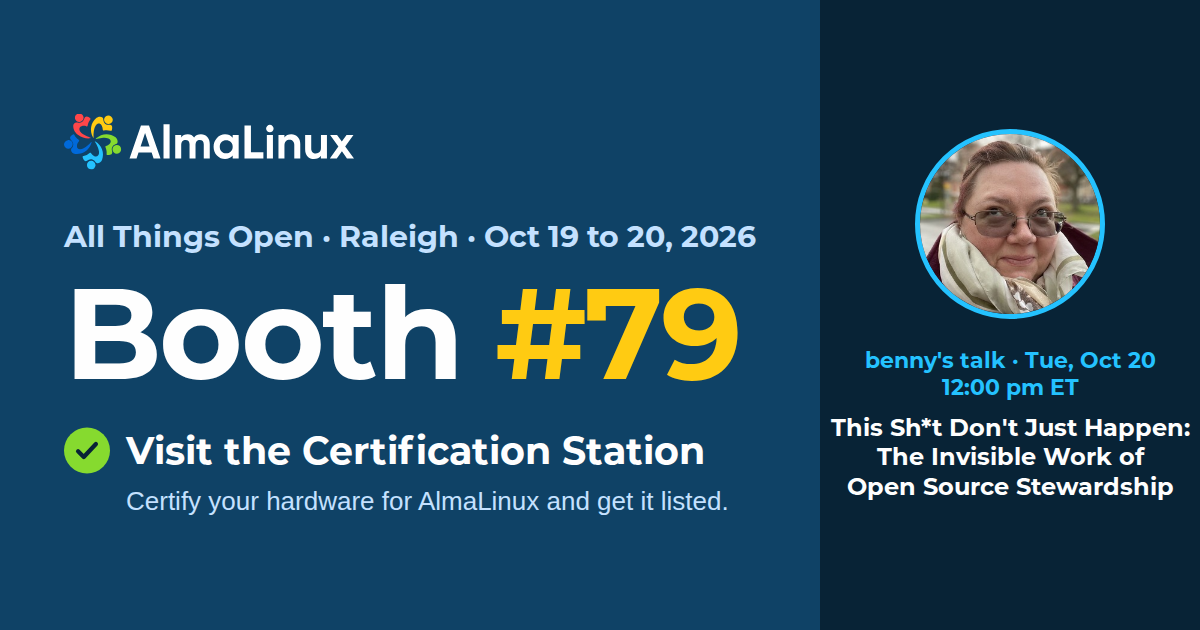
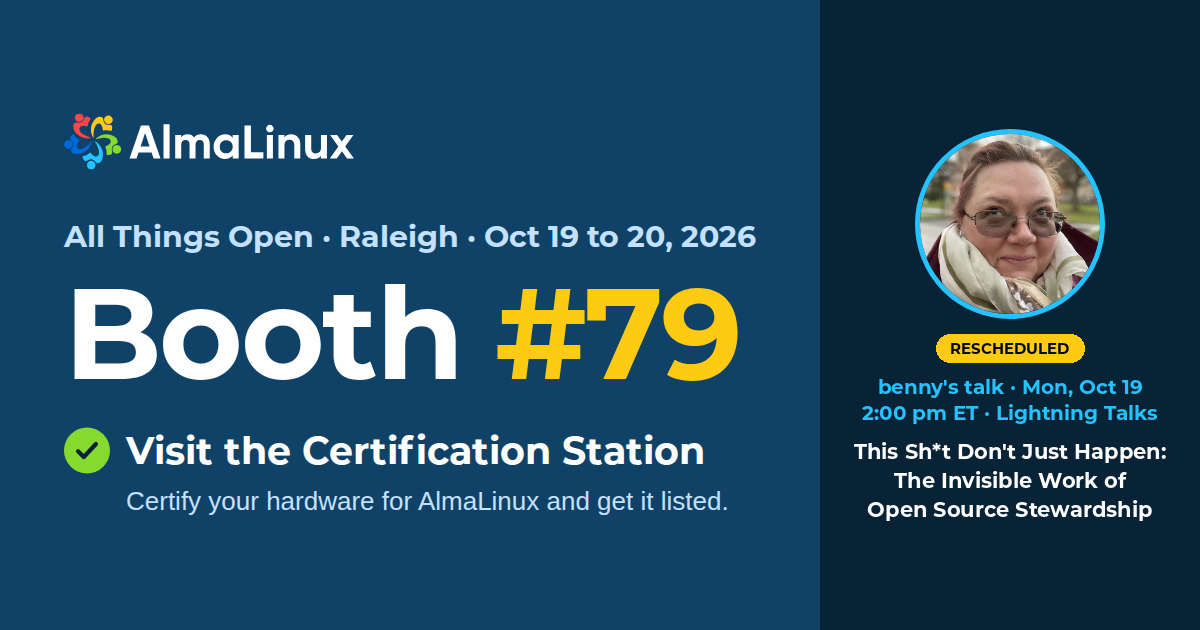
Move benny's ATO talk to the Monday lightning talk slot
The All Things Open organizers moved "This Sh*t Don't Just Happen" from Tuesday, October 20 at 12:00 pm ET to the 2:00 pm ET Lightning Talks block on Monday, October 19. The landing page now shows the new time, marks the talk as rescheduled so anyone who saw the old time knows what changed, and labels the talk section as Monday since both of benny's sessions are now that day. The social preview image carries the same update.

Written with AI assistance, so the copy and image deserve a close review.

Changed region(s): [[0.6783, 0.5127, 1.0, 0.8444]]

diff --git a/content/ato-2026.md b/content/ato-2026.md
@@ -81,7 +81,7 @@ You don't have to be in Raleigh to help. Community validation is a real part of 
 </div>
 
 <div class="al-event-feature mb-5" id="talk">
-  <div class="al-event-eyebrow">Both days of the conference</div>
+  <div class="al-event-eyebrow">Monday, October 19</div>
   <h2>Catch benny in Raleigh</h2>
   <div class="row g-4 mt-3 align-items-start">
     <div class="col-12 col-lg-2 text-center">
@@ -95,8 +95,9 @@ You don't have to be in Raleigh to help. Community validation is a real part of 
       <a href="https://luma.com/4a055dx0" class="btn px-4 al-cta-blue"><i class="bi bi-calendar-event" aria-hidden="true"></i> Register for the Forum</a>
     </div>
     <div class="col-12 col-md-6 col-lg-5">
-      <div class="al-event-eyebrow">Tuesday, October 20 at 12:00 pm ET</div>
+      <div class="al-event-eyebrow">Monday, October 19 at 2:00 pm ET (rescheduled)</div>
       <h3>This Sh*t Don't Just Happen: The Invisible Work of Open Source Stewardship</h3>
+      <p><strong>This talk has moved.</strong> It was scheduled for Tuesday, October 20 at 12:00 pm ET, and it's now a 10-minute lightning talk in Monday's Lightning Talks block.</p>
       <p>Every time you run <code>dnf update</code> and it works, you're experiencing the end result of dozens of people showing up (voluntarily, consistently, and often invisibly) to build and maintain the infrastructure you depend on. This talk looks at the stewardship work that happens beyond the code, what gets in the way of people contributing, and what you can do to get involved.</p>
       <a href="https://2026.allthingsopen.org/sessions/this-sht-dont-just-happen-the-invisible-work-of-open-source-stewardship" class="btn px-4 al-cta-blue"><i class="bi bi-calendar-event" aria-hidden="true"></i> See It on the ATO Website</a>
     </div>
